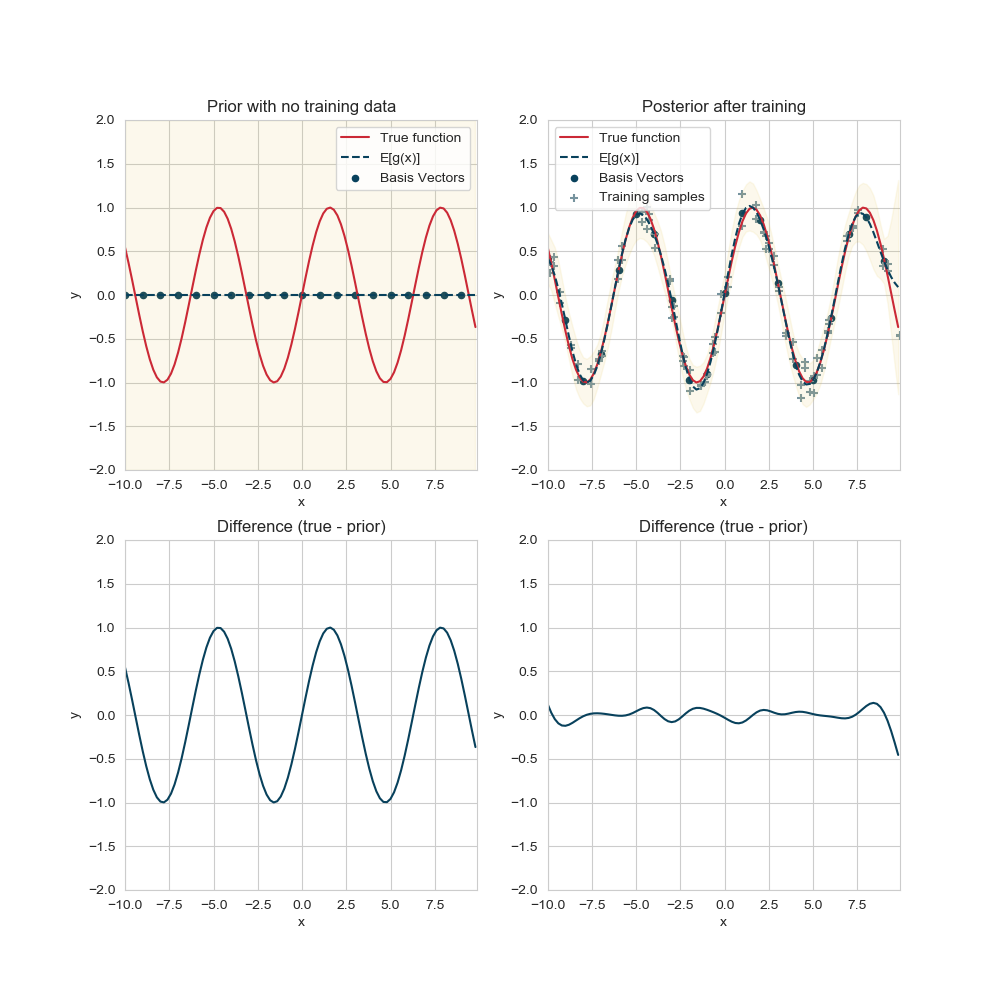
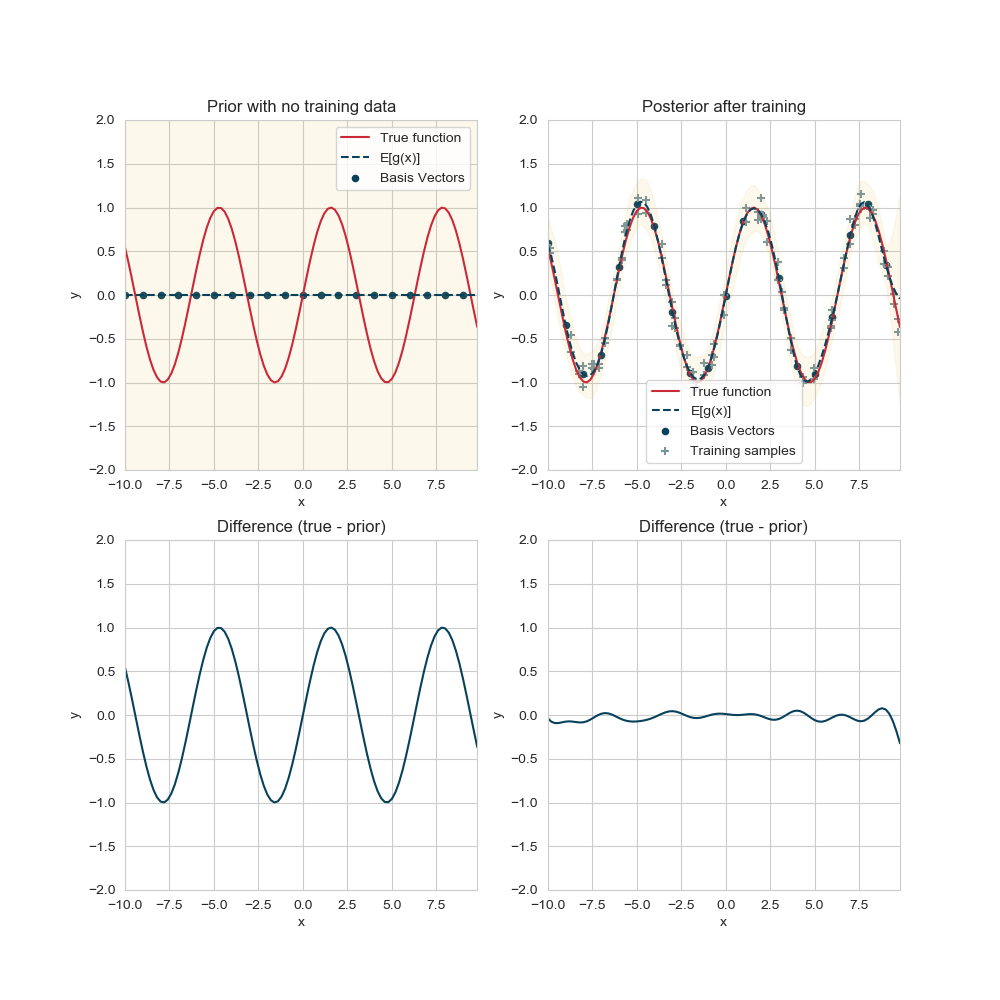
animation saved as gif

diff --git a/main.py b/main.py
@@ -223,7 +223,7 @@ def main():
 
     pbar = tqdm(total=X_t.shape[0])
     ani = animation.FuncAnimation(fig, animate, frames=len(mean_training), interval=500)     
-    ani.save('animation.mp4', writer='ffmpeg', fps=10, dpi=100)
+    ani.save('animation.gif', writer='imagemagick', fps=10, dpi=100)
     pbar.close()
     plt.show()
 
